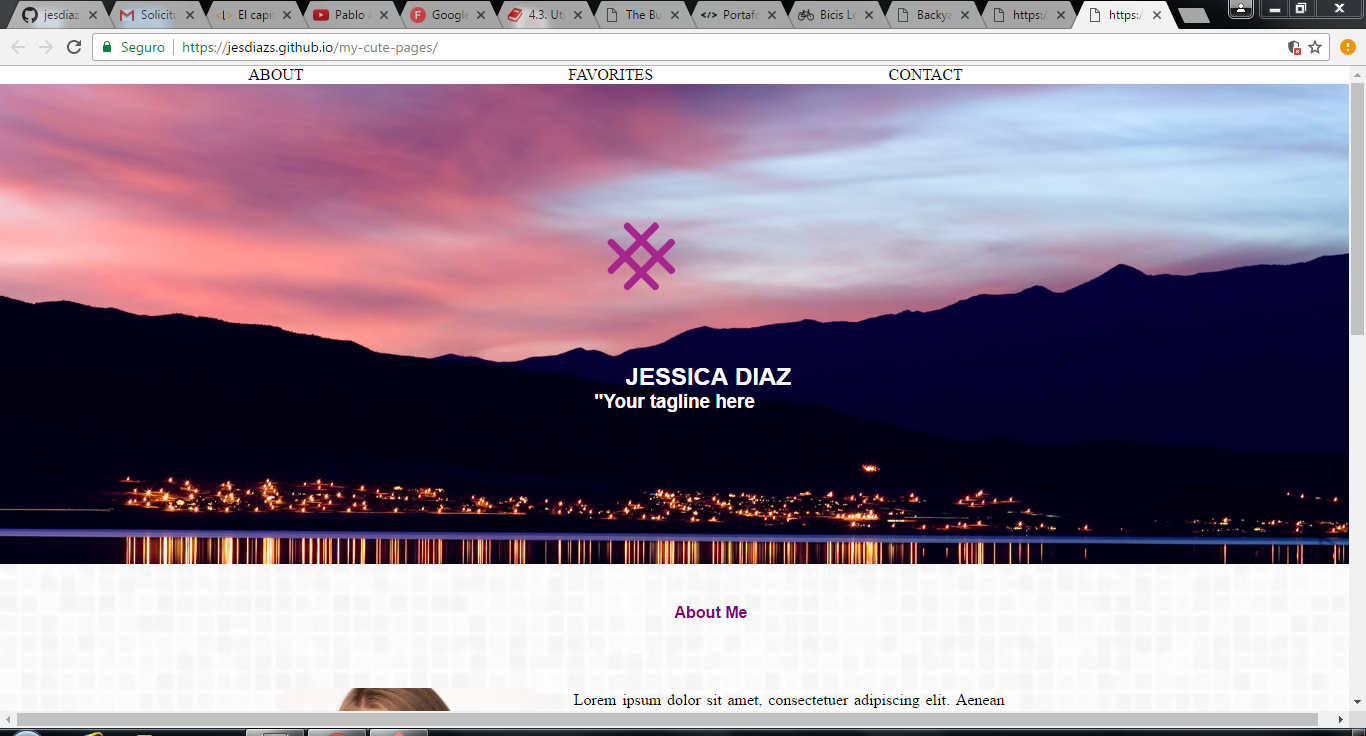
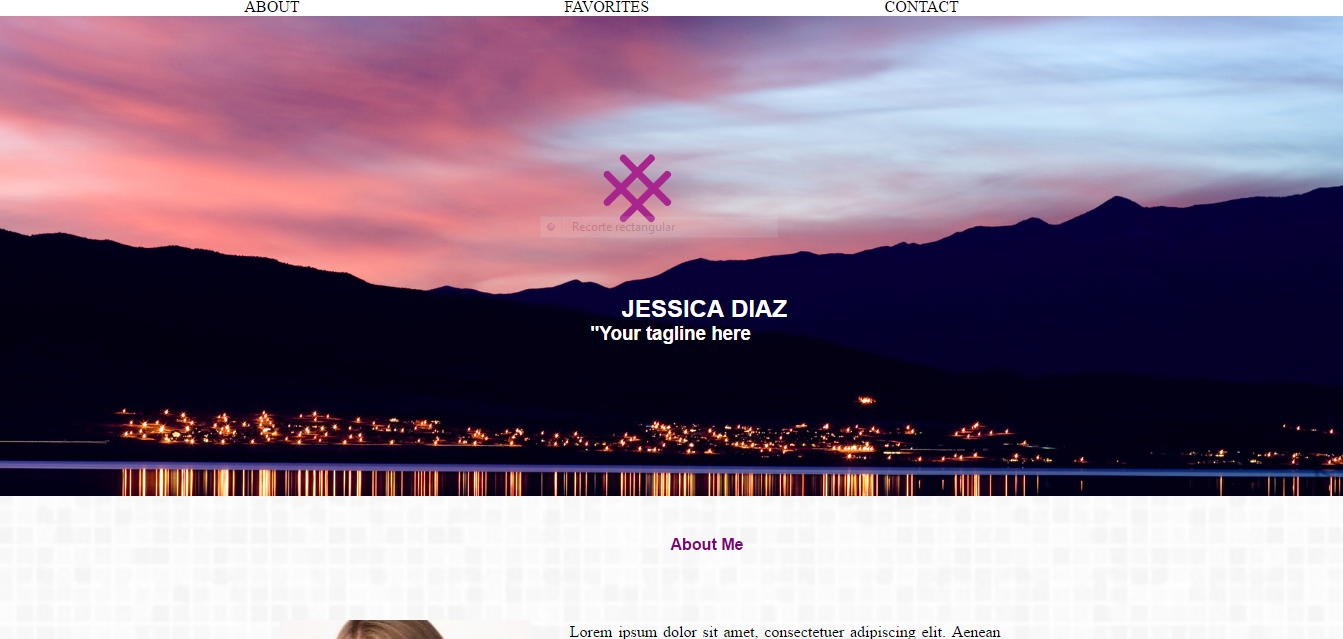
se actualiza los proyectos y el nav

diff --git a/home.html b/home.html
@@ -18,13 +18,13 @@
 		<nav class="navbar navbar-inverse">
 			<ul class="nav navbar-nav navbar-left">
 			   	<li><a href="#sobreMi">SOBRE MI</a></li>
-			   	<li><a href="#habili">HABILIDADES</a></li>
+			   	<li><a href="#habilidades">HABILIDADES</a></li>
 			   	<li><a href="#proyec">PROYECTOS</a></li>
 			   	<li><a href="#contactame">CONTACTO</a></li>
 			</ul>
-		</nav>
+		</nav>|
 	</header>
-	<section class="banner">
+	<section class="container banner">
 		<div class="container">
 			<div class="row">
 				<div class="col-xs-12 col-md-12">
@@ -54,7 +54,7 @@
 				</div>
 			</div>
 		</div>
-	<section class="skill" id="habili">
+	<section class="skill" id="habilidades">
 		<div class="container">
 			<div class="row">
 				<div class="col-xs-12 col-md-12 text-center">
@@ -81,7 +81,7 @@
 		<div class="container">
 			<div class="row">
 				<h3 class="titlepro">Mis Proyectos</h3>
-				<div class="col-xs-4 col-md-4">
+				<div class="col-xs-3 col-md-3">
 					<a href="https://jesdiazs.github.io/bicis_locas_jquery/">
 					<img src="img/bicis.PNG" alt="">
 					<div class="capa_hover" style="display: none;">
@@ -89,7 +89,7 @@
 					</div>
 					</a>
 				</div>
-				<div class="col-xs-4 col-md-4">
+				<div class="col-xs-3 col-md-3">
 					<a href="https://jesdiazs.github.io/backyard/">
 					<img src="img/backyard.PNG" alt="">
 					<div class="capa_hover" style="display: none;">
@@ -97,17 +97,15 @@
 					</div>
 					</a>
 				</div>
-				<div class="col-xs-4 col-md-4">
-					<a href="https://jesdiazs.github.io/mini/">
-					<img src="img/mini.PNG" alt="">
+				<div class="col-xs-3 col-md-3">
+					<a href="https://jesdiazs.github.io/bunny-love/">
+					<img src="img/bunny.PNG" alt="">
 					<div class="capa_hover" style="display: none;">
-						<span btn btnBlanco>Mini</span>
+						<span btn btnBlanco>Bunny Love</span>
 					</div>
 					</a>
 				</div>
-			</div>
-			<div class="row">
-				<div class="col-xs-4 col-md-4 text-center">
+				<div class="col-xs-3 col-md-3">
 					<a href="https://jesdiazs.github.io/my-cute-pages/">
 						<img src="img/cutepages.PNG" alt="">
 						<div class="capa_hover" style="display: none;">
@@ -115,14 +113,6 @@
 						</div>
 					</a>
 				</div>
-				<div class="col-xs-4 col-md-4">
-						<a href="https://jesdiazs.github.io/bunny-love/">
-						<img src="img/bunny.PNG" alt="">
-						<div class="capa_hover" style="display: none;">
-							<span btn btnBlanco>Bunny Love</span>
-						</div>
-						</a>
-					</div>
 			</div>
 	</section>
 	<section class="contacto" id="contactame">

diff --git a/css/main.css b/css/main.css
@@ -3,11 +3,14 @@
 	border-radius: 0px;
 	background-color: #3D3267;
 	border-color:#3D3267;
-    position: relative;
+    position: fixed;
+    width: 100%;
     min-height: 60px;
-    margin-bottom: 0px;
 }
 
+li a{
+		
+}
 /*CSS banner*/
 .banner{
 	background-image: url(../img/banner-editada.jpg);
@@ -15,13 +18,13 @@
 	background-size: cover;
 	background-repeat: no-repeat;
 	width: 100%;
-	height: 320px;
+	height: 345px;
 }
 .banner h1{
 	font-family: 'Sriracha', cursive;
 	font-size: 91px;
 	color:#460163;
-	margin-top: 70px;
+	margin-top: 82px;
 }
 .banner h4{
 	font-family: 'Josefin Sans', sans-serif;
@@ -113,8 +116,8 @@
 }
 .proyecto img{
 	width: 100%;
-	margin-top: 40px;
-	margin-bottom:40px;
+	margin-top: 50px;
+	margin-bottom:80px;
 }
 .titlepro{
 	font-family: 'Josefin Sans', sans-serif;
